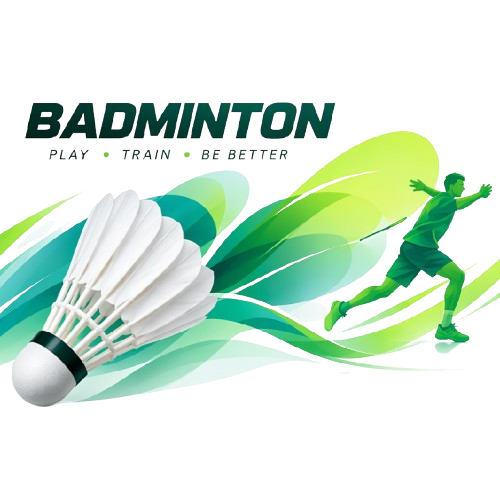
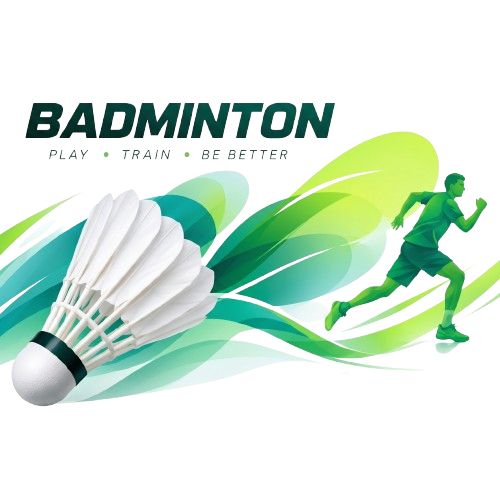
Replace schedule badminton artwork

diff --git a/src/components/ScheduleBoard.tsx b/src/components/ScheduleBoard.tsx
@@ -243,7 +243,7 @@ export function ScheduleBoard({
           src="/brand/01.png"
           alt="Badminton Play Train Be Better"
           width={500}
-          height={250}
+          height={500}
           className="schedule-bottom-img"
         />
       </div>
